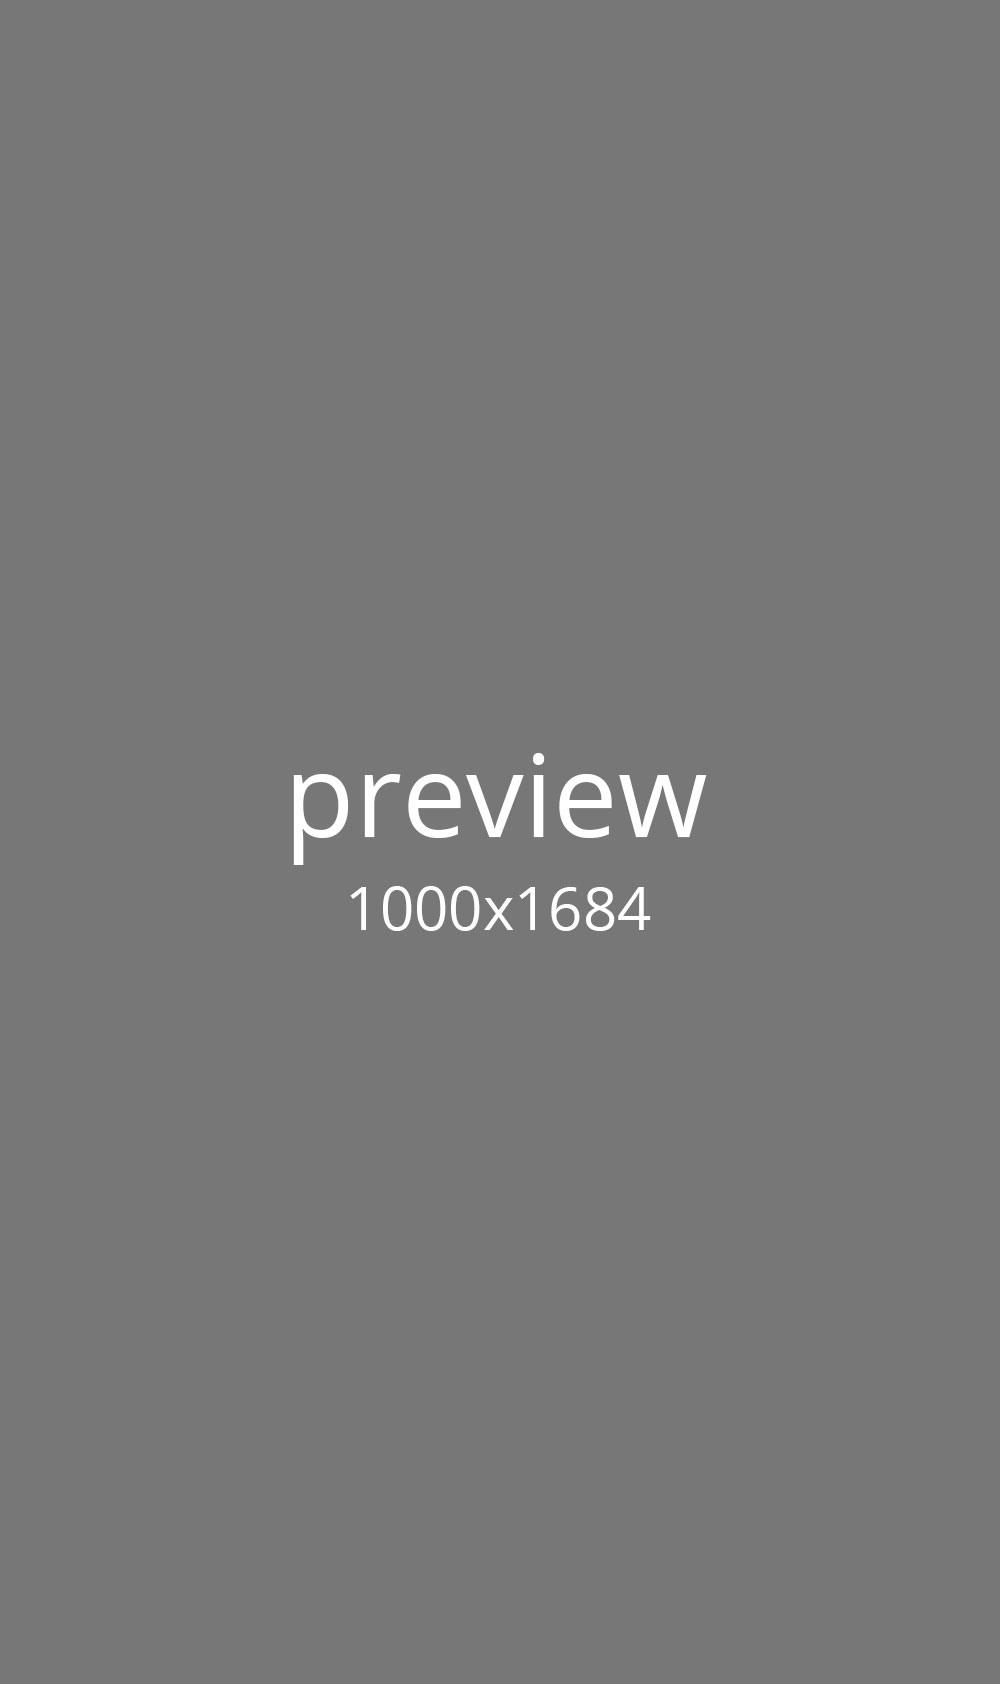
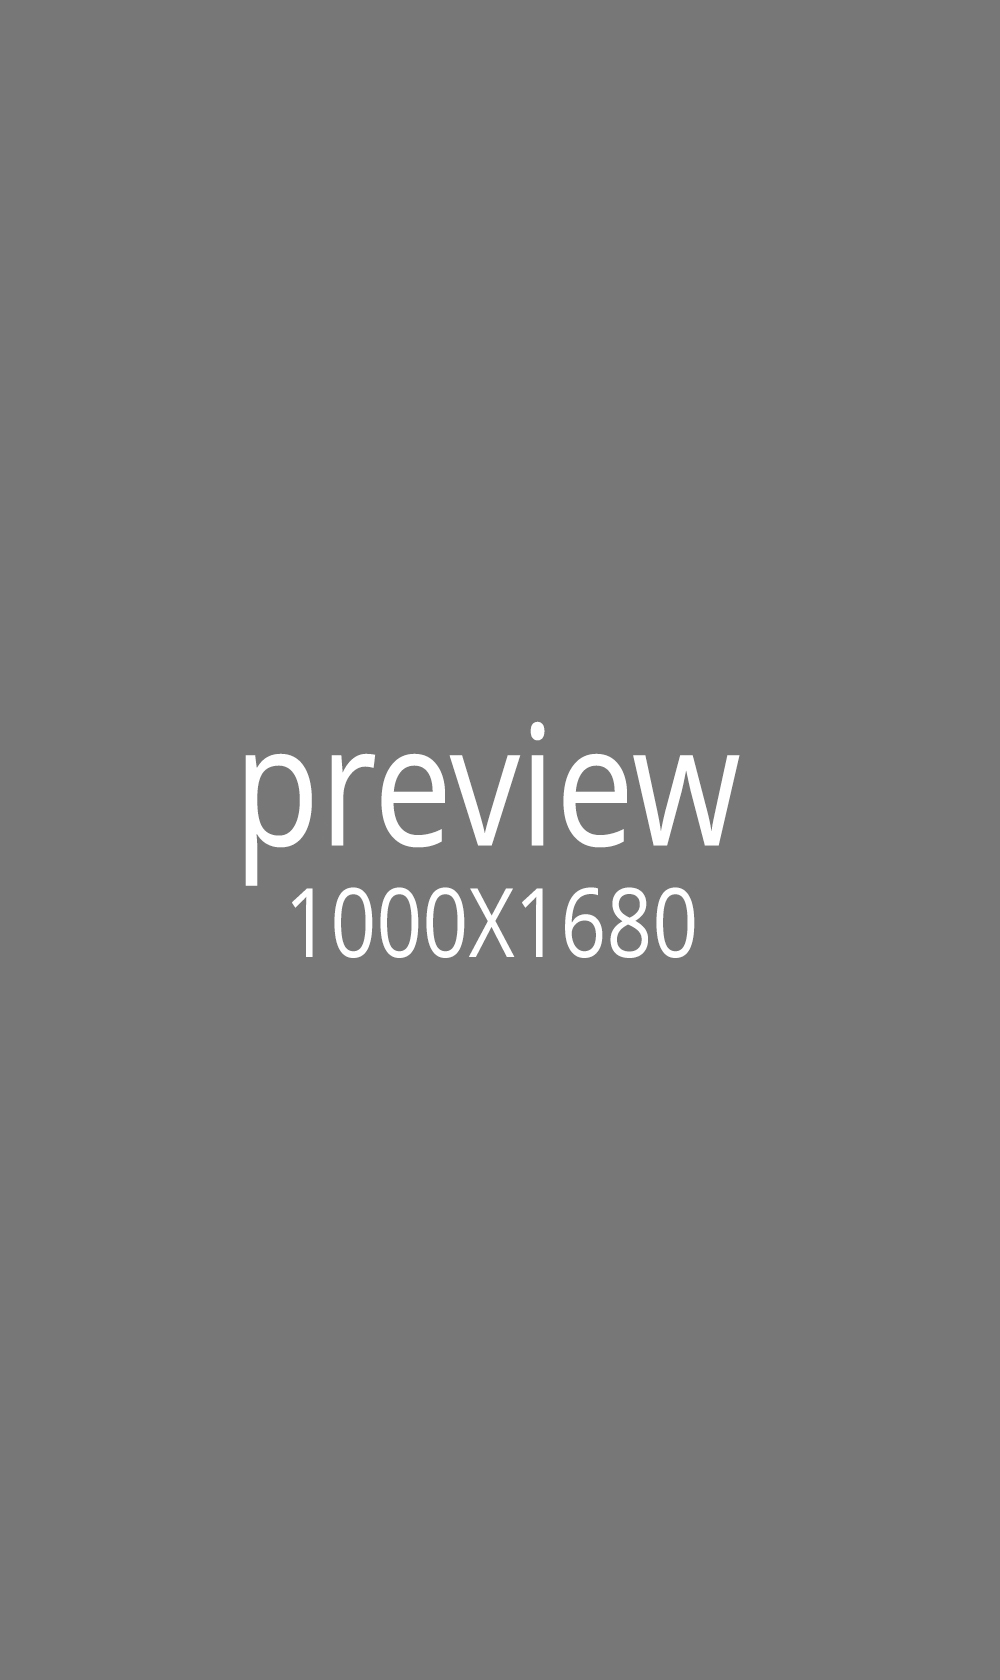
more change for portfolio

Changed region(s): [[0.248, 0.4333, 0.744, 0.5881]]

diff --git a/Corporate/index-03.html b/Corporate/index-03.html
@@ -372,7 +372,7 @@
                                     </figcaption>
                                 </figure>
                                 <figure class="portfolio portfolio-item creativity galaxy solar Clean col-xs-12 col-sm-6 col-md-3">
-                                    <a href="assets/img/portfolio/project-3-3-large.jpg" data-size="1000x1644" class="img">
+                                    <a href="assets/img/portfolio/project-3-3-large.jpg" data-size="1000x1642" class="img">
                                         <img src="assets/img/portfolio/project-3-3.jpg" alt="project img">
                                     </a>
                                     <figcaption class="portfolio-mini-desc">
@@ -938,14 +938,6 @@
 
     <div id="c-mask" class="c-mask"></div><!-- /c-mask -->
 
-
-
-    <!-- Theme Switcher HTML code started -->
-    <div id="colorPanel" class="colorPanel">
-        <a id="cpToggle" href="#"></a>
-        <ul></ul>
-    </div>
-    <!-- Theme Switcher HTML code finished -->
 
     <!-- Initializing Photoswipe -->
     <div class="pswp" tabindex="-1" role="dialog" aria-hidden="true">

diff --git a/Corporate/index-02.html b/Corporate/index-02.html
@@ -403,7 +403,7 @@
                                     </figcaption>
                                 </figure>
                                 <figure class="portfolio portfolio-item creativity galaxy col-xs-12 col-sm-6 col-md-3">
-                                    <a href="assets/img/portfolio/project-2-3-large.jpg" data-size="1000x1684" class="img">
+                                    <a href="assets/img/portfolio/project-2-3-large.jpg" data-size="1000x1680" class="img">
                                         <img src="assets/img/portfolio/project-2-3.jpg" alt="project img">
                                     </a>
                                     <figcaption class="portfolio-mini-desc">
@@ -1066,14 +1066,6 @@
 
     <div id="c-mask" class="c-mask"></div><!-- /c-mask -->
 
-
-
-    <!-- Theme Switcher HTML code started -->
-    <div id="colorPanel" class="colorPanel">
-        <a id="cpToggle" href="#"></a>
-        <ul></ul>
-    </div>
-    <!-- Theme Switcher HTML code finished -->
 
     <!-- Initializing Photoswipe -->
     <div class="pswp" tabindex="-1" role="dialog" aria-hidden="true">

diff --git a/Corporate/index.html b/Corporate/index.html
@@ -463,7 +463,7 @@
                             </figure>
 
                             <figure class="portfolio portfolio-item creativity clean col-xs-12 col-sm-6 col-md-3">
-                                <a href="assets/img/portfolio/project-3-large.jpg" data-size="1000x1644" class="img">
+                                <a href="assets/img/portfolio/project-3-large.jpg" data-size="1000x1640" class="img">
                                     <img src="assets/img/portfolio/project-3.jpg" alt="project img">
                                 </a>
                                 <figcaption class="portfolio-mini-desc">
@@ -1200,14 +1200,6 @@
 
     <div id="c-mask" class="c-mask"></div><!-- /c-mask -->
 
-
-
-    <!-- Theme Switcher HTML code started -->
-    <div id="colorPanel" class="colorPanel">
-        <a id="cpToggle" href="#"></a>
-        <ul></ul>
-    </div>
-    <!-- Theme Switcher HTML code finished -->
 
     <!-- Initializing Photoswipe -->
     <div class="pswp" tabindex="-1" role="dialog" aria-hidden="true">

diff --git a/Corporate/index-04.html b/Corporate/index-04.html
@@ -1107,14 +1107,6 @@
     <div id="c-mask" class="c-mask"></div><!-- /c-mask -->
 
 
-
-    <!-- Theme Switcher HTML code started -->
-    <div id="colorPanel" class="colorPanel">
-        <a id="cpToggle" href="#"></a>
-        <ul></ul>
-    </div>
-    <!-- Theme Switcher HTML code finished -->
-
     <!-- Initializing Photoswipe -->
     <div class="pswp" tabindex="-1" role="dialog" aria-hidden="true">
         <div class="pswp__bg"></div>

diff --git a/Corporate/blog-grid.html b/Corporate/blog-grid.html
@@ -556,14 +556,6 @@
     <div id="c-mask" class="c-mask"></div><!-- /c-mask -->
 
 
-
-    <!-- Theme Switcher HTML code started -->
-    <div id="colorPanel" class="colorPanel">
-        <a id="cpToggle" href="#"></a>
-        <ul></ul>
-    </div>
-    <!-- Theme Switcher HTML code finished -->
-
     <!-- jQuery
     ============================================ -->
     <script src="assets/js/jquery.1.12.4.min.js"></script>

diff --git a/Corporate/blog-list-left-sidebar.html b/Corporate/blog-list-left-sidebar.html
@@ -488,14 +488,6 @@
     <div id="c-mask" class="c-mask"></div><!-- /c-mask -->
 
 
-
-    <!-- Theme Switcher HTML code started -->
-    <div id="colorPanel" class="colorPanel">
-        <a id="cpToggle" href="#"></a>
-        <ul></ul>
-    </div>
-    <!-- Theme Switcher HTML code finished -->
-
     <!-- jQuery
     ============================================ -->
     <script src="assets/js/jquery.1.12.4.min.js"></script>

diff --git a/Corporate/blog-list-no-sidebar.html b/Corporate/blog-list-no-sidebar.html
@@ -394,14 +394,6 @@
     <div id="c-mask" class="c-mask"></div><!-- /c-mask -->
 
 
-
-    <!-- Theme Switcher HTML code started -->
-    <div id="colorPanel" class="colorPanel">
-        <a id="cpToggle" href="#"></a>
-        <ul></ul>
-    </div>
-    <!-- Theme Switcher HTML code finished -->
-
     <!-- jQuery
     ============================================ -->
     <script src="assets/js/jquery.1.12.4.min.js"></script>

diff --git a/Corporate/blog-list-right-sidebar.html b/Corporate/blog-list-right-sidebar.html
@@ -489,14 +489,6 @@
     <div id="c-mask" class="c-mask"></div><!-- /c-mask -->
 
 
-
-    <!-- Theme Switcher HTML code started -->
-    <div id="colorPanel" class="colorPanel">
-        <a id="cpToggle" href="#"></a>
-        <ul></ul>
-    </div>
-    <!-- Theme Switcher HTML code finished -->
-
     <!-- jQuery
     ============================================ -->
     <script src="assets/js/jquery.1.12.4.min.js"></script>

diff --git a/Corporate/portfolio-single-01.html b/Corporate/portfolio-single-01.html
@@ -380,14 +380,6 @@
     <div id="c-mask" class="c-mask"></div><!-- /c-mask -->
 
 
-
-    <!-- Theme Switcher HTML code started -->
-    <div id="colorPanel" class="colorPanel">
-        <a id="cpToggle" href="#"></a>
-        <ul></ul>
-    </div>
-    <!-- Theme Switcher HTML code finished -->
-
     <!-- jQuery
     ============================================ -->
     <script src="assets/js/jquery.1.12.4.min.js"></script>

diff --git a/Corporate/portfolio-single-02.html b/Corporate/portfolio-single-02.html
@@ -378,14 +378,6 @@
     <div id="c-mask" class="c-mask"></div><!-- /c-mask -->
 
 
-
-    <!-- Theme Switcher HTML code started -->
-    <div id="colorPanel" class="colorPanel">
-        <a id="cpToggle" href="#"></a>
-        <ul></ul>
-    </div>
-    <!-- Theme Switcher HTML code finished -->
-
     <!-- jQuery
     ============================================ -->
     <script src="assets/js/jquery.1.12.4.min.js"></script>

diff --git a/Corporate/single-post-left-sidebar.html b/Corporate/single-post-left-sidebar.html
@@ -580,14 +580,6 @@
     <div id="c-mask" class="c-mask"></div><!-- /c-mask -->
 
 
-
-    <!-- Theme Switcher HTML code started -->
-    <div id="colorPanel" class="colorPanel">
-        <a id="cpToggle" href="#"></a>
-        <ul></ul>
-    </div>
-    <!-- Theme Switcher HTML code finished -->
-
     <!-- jQuery
     ============================================ -->
     <script src="assets/js/jquery.1.12.4.min.js"></script>

diff --git a/Corporate/single-post-no-sidebar.html b/Corporate/single-post-no-sidebar.html
@@ -482,14 +482,6 @@
     <div id="c-mask" class="c-mask"></div><!-- /c-mask -->
 
 
-
-    <!-- Theme Switcher HTML code started -->
-    <div id="colorPanel" class="colorPanel">
-        <a id="cpToggle" href="#"></a>
-        <ul></ul>
-    </div>
-    <!-- Theme Switcher HTML code finished -->
-
     <!-- jQuery
     ============================================ -->
     <script src="assets/js/jquery.1.12.4.min.js"></script>
